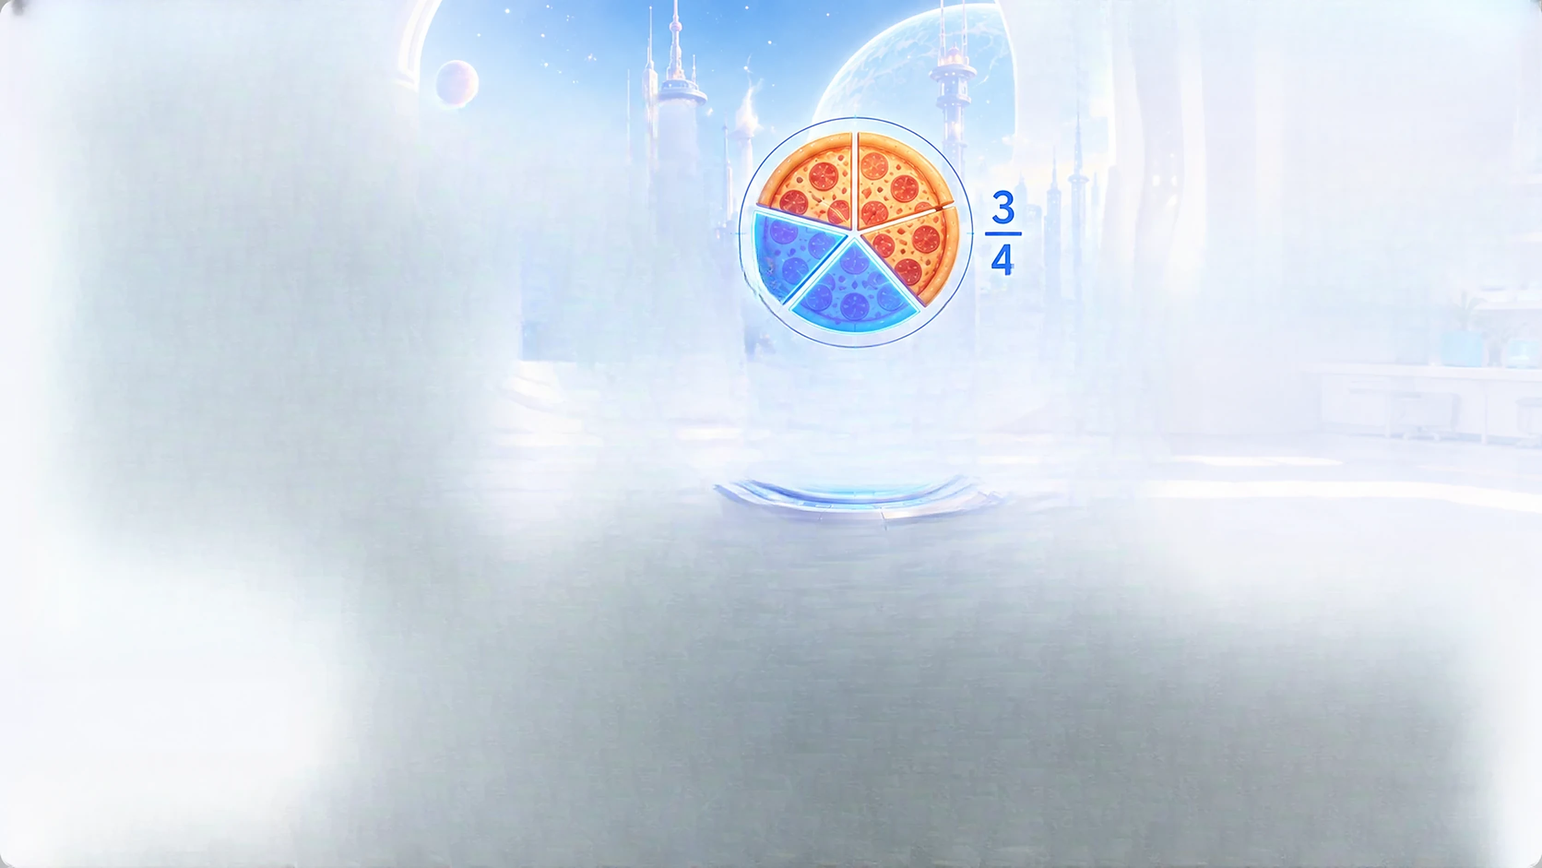
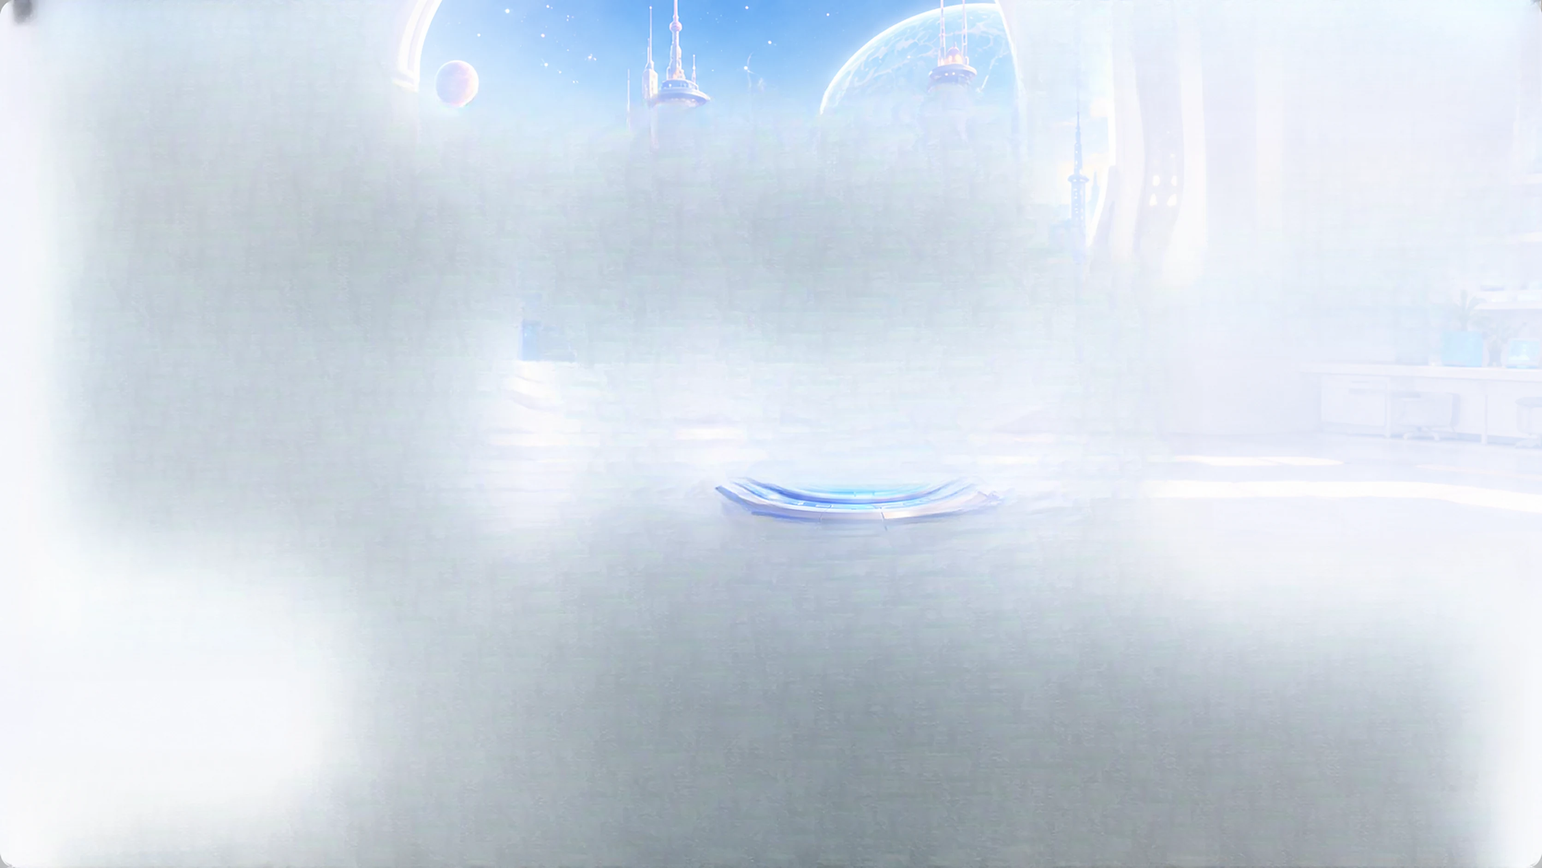
Fix production build

Changed region(s): [[0.3732, 0.0925, 0.6842, 0.4006], [0.4976, 0.5855, 0.5287, 0.6164], [0.0, 0.0, 0.0311, 0.0308]]

diff --git a/src/screens/Topic.jsx b/src/screens/Topic.jsx
@@ -1,5 +1,6 @@
 import React from 'react'
 import { useNavigate, useParams } from 'react-router-dom'
+import { useBackTrail } from '../lib/nav.js'
 import { motion } from 'motion/react'
 import { ArrowLeft, BookOpen, Box, Trophy, Check, Lock, Loader, Pencil, ClipboardCheck, Rocket, Star } from 'lucide-react'
 import Scene, { Cutout, Child } from '../components/Scene.jsx'
@@ -9,7 +10,7 @@ import { Card } from '../components/Panel.jsx'
 import Button from '../components/Button.jsx'
 import SpeechBubble from '../components/SpeechBubble.jsx'
 import Dock from '../components/Dock.jsx'
-import { topicFor, gradeLabel } from '../data/catalog.js'
+import { topicFor, gradeLabel, WORLDS } from '../data/catalog.js'
 import { useGame } from '../state/GameProvider.jsx'
 import { cn } from '../lib/utils.js'
 
@@ -19,18 +20,25 @@ const XS = [480, 660, 840, 1000, 1150]
 export default function Topic() {
   const nav = useNavigate()
   const { world = 'maths' } = useParams()
+  /* Back goes where the child came from. This said "Back to Learn" and always went to the
+     Learn Hub, which is wrong for the common path now: most children arrive from Home. */
+  const goBack = useBackTrail()
   const T = topicFor(world)
   /* The headline column is 500px and the tracks below start at a fixed y, so a long
      title must shrink rather than wrap -- two lines pushed the description down behind
      the syllabus cards. Sized off the title that shipped ("Fractions", 9 characters). */
   const titlePx = T.title.length <= 10 ? 86 : T.title.length <= 15 ? 62 : 50
+  /* The designer's backdrop carried a fraction pizza here, which was right when Fractions
+     was the only page this route served. Every subject opens it now, so the pizza was
+     painted out and each world draws its own globe on the pedestal instead. */
+  const globe = (WORLDS.find(w => w.id === world) ?? WORLDS[1]).img
   const g = useGame(); const { name, face, grade } = g.state.profile; const { xp, streak } = g.state.stats
   return (
     <Page>
       <Scene name="topic" />
-      <TopBar right={<><div className="pill h-[68px] px-2 gap-0"><StatPill kind="streak" value={streak} label="Day streak" className="border-0 shadow-none bg-transparent" /><span className="w-px h-8 bg-[var(--line)]" /><StatPill kind="xp" value={xp.toLocaleString()} label="Nova XP" className="border-0 shadow-none bg-transparent" /></div><UserChip name={name} sub={gradeLabel(grade)} face={face} /></>} showControls={false} />
+      <TopBar back={false} right={<><div className="pill h-[68px] px-2 gap-0"><StatPill kind="streak" value={streak} label="Day streak" className="border-0 shadow-none bg-transparent" /><span className="w-px h-8 bg-[var(--line)]" /><StatPill kind="xp" value={xp.toLocaleString()} label="Nova XP" className="border-0 shadow-none bg-transparent" /></div><UserChip name={name} sub={gradeLabel(grade)} face={face} /></>} showControls={false} />
       <Stack className="absolute left-[50px] top-[115px] w-[500px]" start={0.2}>
-        <Item><button className="flex items-center gap-2 text-[21px] font-extrabold text-primary-ink hover:underline" onClick={() => nav('/learn')}><ArrowLeft size={22} strokeWidth={2.6} /> Back to Learn</button></Item>
+        <Item><button className="flex items-center gap-2 text-[21px] font-extrabold text-primary-ink hover:underline" onClick={goBack}><ArrowLeft size={22} strokeWidth={2.6} /> Back</button></Item>
         <Item className="flex items-center gap-4"><h1 className="font-display font-extrabold leading-none text-ink whitespace-nowrap" style={{ fontSize: titlePx }}>{T.title}</h1><img src="/art/planet-sm.webp" alt="" className="w-[70px] floaty" /></Item>
         <Item className="text-[26px] font-extrabold text-primary-ink">{gradeLabel(grade)} <span className="text-ink-3">•</span> {T.subject}</Item>
         <Item className="mt-2 text-[18px] font-semibold text-ink-2 leading-snug">{T.desc}</Item>
@@ -46,6 +54,10 @@ export default function Topic() {
       </Stack>
 
       <Child screen="topic" delay={0.4} />
+      <motion.img src={globe} alt="" draggable={false} className="absolute left-[820px] top-[120px] w-[270px] pointer-events-none"
+        style={{ filter: 'drop-shadow(0 26px 34px rgba(40,30,140,.4))' }}
+        initial={{ opacity: 0, scale: 0.8 }} animate={{ opacity: 1, scale: 1, y: [0, -12, 0], rotate: [0, 3, 0, -3, 0] }}
+        transition={{ opacity: { delay: 0.25 }, scale: { type: 'spring', stiffness: 200, damping: 18, delay: 0.25 }, y: { duration: 6, repeat: Infinity, ease: 'easeInOut' }, rotate: { duration: 9, repeat: Infinity, ease: 'easeInOut' } }} />
       <Cutout id="topic-1" delay={0.19} amp={10} />
       <div className="absolute left-[1310px] top-[180px]"><SpeechBubble tail="left" text={T.nova} delay={0.3} className="w-[240px] text-[17px]" /></div>
 

diff --git a/src/lib/nav.js b/src/lib/nav.js
@@ -1,0 +1,97 @@
+import { useEffect, useRef } from 'react'
+import { useLocation, useNavigate } from 'react-router-dom'
+
+/* Where "back" goes when there is no trail to walk — a deep link, a refresh, or the
+   first screen of a session. Without this the button would be dead exactly when a
+   child needs it most.
+
+   Ported from v1, which kept the same map. v2 had no back system at all: every screen
+   was expected to carry its own dock, so removing a dock from one silently turned it
+   into a dead end. This makes the way out structural instead. */
+export const PARENT = {
+  '/parent/login': '/',
+  '/onboarding/child': '/parent/login',
+  '/onboarding/grade-board': '/onboarding/child',
+  '/onboarding/avatar': '/onboarding/grade-board',
+  '/onboarding/interests': '/onboarding/avatar',
+  '/onboarding/goals': '/onboarding/interests',
+  '/onboarding/nova': '/onboarding/goals',
+  '/welcome': '/home',
+  '/learn': '/home',
+  '/journey': '/home',
+  '/tests': '/home',
+  '/extra': '/home',
+  '/challenge': '/home',
+  '/profile': '/home',
+  '/parent': '/home',
+  '/missions/fractions': '/journey',
+  '/missions/fractions/spot-mistake': '/missions/fractions',
+  '/missions/fractions/complete': '/missions/fractions',
+  '/tests/mixed/intro': '/tests',
+  '/tests/mixed/question': '/tests/mixed/intro',
+  '/tests/mixed/result': '/tests',
+  '/extra/reading': '/extra',
+  '/extra/confidence': '/extra',
+  '/challenge/opponents': '/challenge',
+  '/challenge/preview': '/challenge/opponents',
+  '/challenge/battle': '/challenge/opponents',
+  '/challenge/result': '/challenge',
+  '/challenge/leaderboard': '/challenge',
+  '/profile/journey': '/profile',
+  '/switch': '/parent',
+  '/parent/evidence': '/parent',
+  '/parent/plan': '/parent',
+}
+
+/* Topic is parameterised, so it cannot be a plain key. */
+export const parentOf = path =>
+  PARENT[path] ?? (path.startsWith('/learn/topics/') ? '/learn' : null)
+
+/* The roots: nothing sits behind them, so a Back would point nowhere. */
+export const NO_BACK = new Set(['/', '/home'])
+
+/* The seven screens that render no TopBar and no Logo. Everywhere else the back lives
+   inside the header, which is both tidier and impossible to collide with; these are the
+   ones that need a floating button instead. Home is headerless too but is a root. */
+export const HEADERLESS = new Set([
+  '/welcome', '/extra', '/missions/fractions', '/switch', '/parent', '/parent/evidence', '/parent/plan',
+])
+
+/* Does this route need the floating button? Only if it has somewhere to go back to and
+   no header of its own to put the control in. */
+export const needsFloatingBack = path => !NO_BACK.has(path) && HEADERLESS.has(path)
+
+/**
+ * Back returns where the child actually came from, not to a fixed parent — a child who
+ * reached the test from Home should land back on Home, not on the Journey map just
+ * because that is the "logical" parent. PARENT is the fallback for when there is no
+ * trail: a bookmark, a refresh, or a shared link.
+ */
+export function useBackTrail() {
+  const { pathname } = useLocation()
+  const navigate = useNavigate()
+  const trail = useRef([])
+  const last = useRef(pathname)
+  const goingBack = useRef(false)
+
+  useEffect(() => {
+    if (last.current === pathname) return
+    /* Don't record the backwards step itself, or Back would ping-pong between two screens. */
+    if (goingBack.current) goingBack.current = false
+    else {
+      trail.current.push(last.current)
+      if (trail.current.length > 40) trail.current.shift()
+    }
+    last.current = pathname
+  }, [pathname])
+
+  return () => {
+    let target = null
+    while (trail.current.length && !target) {
+      const prev = trail.current.pop()
+      if (prev && prev !== pathname) target = prev
+    }
+    goingBack.current = true
+    navigate(target ?? parentOf(pathname) ?? '/home')
+  }
+}

diff --git a/src/screens/ChallengeHome.jsx b/src/screens/ChallengeHome.jsx
@@ -14,8 +14,8 @@ import { useGame } from '../state/GameProvider.jsx'
 const CARDS = [
   { I: CalendarDays, c: '#7c3aed', t: 'Daily Challenge', s: 'New challenge every day!', tag: '+30 XP', btn: 'Start', to: '/tests/mixed/intro', primary: true },
   { I: Swords, c: '#3b82f6', t: 'Battle Arena', s: 'Compete with AI opponents.', btn: 'Enter Battle', to: '/challenge/opponents', primary: true },
-  { I: Trophy, c: '#f59e0b', t: 'Leaderboard', s: 'See how you rank.', btn: 'View Leaderboard', to: '/challenge/leaderboard' },
-  { I: Medal, c: '#f97316', t: 'Personal Best', s: 'Track your top scores.', btn: 'View Stats', to: '/profile' },
+  { I: Trophy, c: '#f59e0b', grad: 'linear-gradient(100deg,#f59e0b,#f97316)', t: 'Leaderboard', s: 'See how you rank.', btn: 'View Leaderboard', to: '/challenge/leaderboard' },
+  { I: Medal, c: '#f97316', grad: 'linear-gradient(100deg,#fb923c,#ea580c)', t: 'Personal Best', s: 'Track your top scores.', btn: 'View Stats', to: '/profile' },
 ]
 
 export default function ChallengeHome() {
@@ -39,7 +39,7 @@ export default function ChallengeHome() {
           <Item key={c.t} v="pop"><Tilt max={5}>
             <Card hover className="w-[378px] h-[235px] p-5 flex flex-col" onClick={() => nav(c.to)}>
               <div className="flex items-start gap-4"><span className="icon-orb w-[86px] h-[86px]" style={{ color: c.c, background: `${c.c}1f` }}><c.I size={44} /></span><span className="flex-1 leading-tight"><span className="block font-display font-extrabold text-[24px] text-ink">{c.t}</span><span className="block mt-1 text-[16px] font-semibold text-ink-2">{c.s}</span>{c.tag && <span className="block mt-2 text-[16px] font-extrabold text-orange-500 text-right">{c.tag}</span>}</span></div>
-              <div className="mt-auto">{c.primary ? <Button size="md" arrow={c.t !== 'Daily Challenge'} className="w-full h-[54px] text-[19px] uppercase" sound="whoosh" onClick={e => { e.stopPropagation(); nav(c.to) }}>{c.btn}{c.t === 'Daily Challenge' && <ChevronRight size={22} className="ml-auto" />}</Button> : <Button variant="ghost" size="md" className="w-full h-[54px] text-[18px] uppercase" style={{ background: `${c.c}1f`, color: c.c, borderColor: `${c.c}59` }} onClick={e => { e.stopPropagation(); nav(c.to) }}>{c.btn}<ChevronRight size={22} className="ml-auto" /></Button>}</div>
+              <div className="mt-auto">{c.primary ? <Button size="md" arrow={c.t !== 'Daily Challenge'} className="w-full h-[54px] text-[19px] uppercase" sound="whoosh" onClick={e => { e.stopPropagation(); nav(c.to) }}>{c.btn}{c.t === 'Daily Challenge' && <ChevronRight size={22} className="ml-auto" />}</Button> : <Button size="md" className="w-full h-[54px] text-[18px] uppercase text-white" style={{ background: c.grad, boxShadow: `0 14px 30px -14px ${c.c}` }} onClick={e => { e.stopPropagation(); nav(c.to) }}>{c.btn}<ChevronRight size={22} className="ml-auto" /></Button>}</div>
             </Card>
           </Tilt></Item>
         ))}

diff --git a/src/screens/Home.jsx b/src/screens/Home.jsx
@@ -9,6 +9,7 @@ import {
 import Scene, { Cutout, Child } from '../components/Scene.jsx'
 import Page, { Stack, Item } from '../components/Page.jsx'
 import { Ring, Bar, Counter } from '../components/Widgets.jsx'
+import { WORLDS } from '../data/catalog.js'
 import { useGame } from '../state/GameProvider.jsx'
 import { openSettings } from '../components/SettingsSheet.jsx'
 import ParentGate from '../components/ParentGate.jsx'
@@ -27,13 +28,22 @@ const NAV = [
   { label: 'Settings', icon: Settings, to: null },
 ]
 
-const SUBJECTS = [
-  { t: 'Mathematics', s: 'Solve • Think • Grow', icon: Calculator, c: '#2563eb', bg: 'linear-gradient(160deg,#bfdbfe,#93c5fd)', to: '/learn' },
-  { t: 'Science', s: 'Discover • Experiment', icon: FlaskConical, c: '#7c3aed', bg: 'linear-gradient(160deg,#e9d5ff,#d8b4fe)', to: '/learn' },
-  { t: 'Language', s: 'Read • Write • Express', icon: BookMarked, c: '#db2777', bg: 'linear-gradient(160deg,#fbcfe8,#f9a8d4)', to: '/extra/reading' },
-  { t: 'Creativity', s: 'Imagine • Create', icon: Palette, c: '#d97706', bg: 'linear-gradient(160deg,#fde68a,#fcd34d)', to: '/learn' },
-  { t: 'Life Skills', s: 'Learn • Apply • Grow', icon: Sprout, c: '#16a34a', bg: 'linear-gradient(160deg,#bbf7d0,#86efac)', to: '/extra/confidence' },
-]
+/* The same five worlds the Learn Hub lists, in the same order, with their names taken
+   from WORLDS so the two screens can never drift apart -- Home used to call them
+   Mathematics / Science / Language / Creativity / Life Skills while the Learn Hub called
+   the same things Maths / EVS / Literacy / Computer / General Awareness.
+
+   Each card opens its own subject's syllabus directly. The Learn Hub is the picker you
+   reach from the rail when you do not already know which world you want; landing on it
+   after naming a subject asks the child the question they just answered. */
+const SUBJECT_STYLE = {
+  literacy: { s: 'Read • Write • Express', icon: BookMarked, c: '#db2777', bg: 'linear-gradient(160deg,#fbcfe8,#f9a8d4)' },
+  maths:    { s: 'Solve • Think • Grow',   icon: Calculator, c: '#2563eb', bg: 'linear-gradient(160deg,#bfdbfe,#93c5fd)' },
+  evs:      { s: 'Discover • Experiment',  icon: FlaskConical, c: '#7c3aed', bg: 'linear-gradient(160deg,#e9d5ff,#d8b4fe)' },
+  computer: { s: 'Imagine • Create',       icon: Palette, c: '#d97706', bg: 'linear-gradient(160deg,#fde68a,#fcd34d)' },
+  general:  { s: 'Learn • Apply • Grow',   icon: Sprout, c: '#16a34a', bg: 'linear-gradient(160deg,#bbf7d0,#86efac)' },
+}
+const SUBJECTS = WORLDS.map(w => ({ ...SUBJECT_STYLE[w.id], t: w.name, to: `/learn/topics/${w.id}` }))
 
 const MISSIONS = [
   [BookOpen, '#3b82f6', 'Read a new story', 30],

diff --git a/src/components/TopBar.jsx b/src/components/TopBar.jsx
@@ -1,5 +1,6 @@
 import React, { useEffect, useState } from 'react'
-import { useNavigate } from 'react-router-dom'
+import { useLocation, useNavigate } from 'react-router-dom'
+import { useBackTrail, parentOf, NO_BACK } from '../lib/nav.js'
 import { AnimatePresence, motion } from 'motion/react'
 import { ChevronDown, Globe, Sun, Moon, Volume2, VolumeX, Flame, Star, Zap, Gem, Settings, Check, ArrowLeft } from 'lucide-react'
 import Logo from './Logo.jsx'
@@ -12,17 +13,23 @@ import { openSettings } from './SettingsSheet.jsx'
 import ScreenPill from './ScreenFit.jsx'
 import { bleedX, safeT } from './Stage.jsx'
 
-/* `back` is for screens that carry no dock of their own. Navigation lives on the
-   main screen, so a screen opened from it needs one clear way home rather than a
-   full nav bar -- pass a route, or `true` to step back through history. */
+/* Every screen with a header gets a Back, without having to ask for it: if the route has
+   a parent, the control appears. Screens used to carry their own way out -- a dock, a rail,
+   an ad-hoc button -- so dropping a dock from one silently turned it into a dead end.
+   Pass `back={false}` to suppress it, or an explicit route to override where it goes. */
 export function TopBar({ logo = 'plus', center, right, className, showControls = true, back, backLabel = 'Back' }) {
   const nav = useNavigate()
+  const { pathname } = useLocation()
+  const goBack = useBackTrail()
+  const auto = !NO_BACK.has(pathname) && parentOf(pathname) != null
+  const showBack = back === false ? false : (back != null || auto)
+  const onBack = () => { sfx.tap(); back === true || back == null ? goBack() : nav(back) }
   return (
     <motion.header className={cn('absolute flex items-center justify-between px-9 pt-7 z-20', className)} style={{ ...bleedX(0), ...safeT(0) }} initial={{ y: -30, opacity: 0 }} animate={{ y: 0, opacity: 1 }} transition={{ duration: 0.8, ease: EASE }}>
       <div className="flex items-center gap-4">
-        {back && (
+        {showBack && (
           <motion.button type="button" className="pill h-[54px] pl-3 pr-5 gap-2 text-primary-ink"
-            whileHover={{ x: -3 }} onClick={() => { sfx.tap(); back === true ? nav(-1) : nav(back) }}>
+            aria-label="Go back" whileHover={{ x: -3 }} onClick={onBack}>
             <ArrowLeft size={22} strokeWidth={2.6} />
             <span className="font-display font-extrabold text-[18px]">{backLabel}</span>
           </motion.button>

diff --git a/src/data/catalog.js b/src/data/catalog.js
@@ -167,6 +167,40 @@ export const TOPICS = {
       { n: 5, name: 'Life Cycles', stars: 0, state: 'locked' },
     ],
   },
+  computer: {
+    title: 'Sequences', subject: 'Computer',
+    desc: 'Put steps in the right order, spot a pattern that repeats, and tell a machine exactly what to do.',
+    nova: 'A computer does exactly what you say — so the order of your steps is everything! ✨',
+    tracks: [
+      ['School Syllabus', ['Parts of a computer', 'Using a keyboard'], 'Completed', 'done'],
+      ['Kidsverse Plus', ['Step by step', 'Patterns', 'Repeating a step'], 'In progress', 'progress'],
+      ['Competition Edge', ['Debugging a sequence'], 'Locked', 'locked'],
+    ],
+    steps: [
+      { n: 1, name: 'What is a Step?', stars: 3, state: 'done' },
+      { n: 2, name: 'Right Order', stars: 3, state: 'done' },
+      { n: 3, name: 'Spot the Pattern', stars: 2, state: 'current' },
+      { n: 4, name: 'Repeat It', stars: 0, state: 'locked' },
+      { n: 5, name: 'Fix the Mistake', stars: 0, state: 'locked' },
+    ],
+  },
+  general: {
+    title: 'Our Community', subject: 'General Awareness',
+    desc: 'Meet the people who keep a place running, learn how to stay safe, and see what it means to help.',
+    nova: 'A community works because everybody does their bit — including you! ✨',
+    tracks: [
+      ['School Syllabus', ['People who help us', 'Our country'], 'Completed', 'done'],
+      ['Kidsverse Plus', ['Staying safe', 'Money sense', 'Being a good neighbour'], 'In progress', 'progress'],
+      ['Competition Edge', ['Current affairs'], 'Locked', 'locked'],
+    ],
+    steps: [
+      { n: 1, name: 'People Who Help', stars: 3, state: 'done' },
+      { n: 2, name: 'My Neighbourhood', stars: 3, state: 'done' },
+      { n: 3, name: 'Staying Safe', stars: 2, state: 'current' },
+      { n: 4, name: 'Money Sense', stars: 0, state: 'locked' },
+      { n: 5, name: 'Helping Out', stars: 0, state: 'locked' },
+    ],
+  },
 }
 
 export const topicFor = world => TOPICS[world] ?? TOPICS.maths

diff --git a/src/components/BackButton.jsx b/src/components/BackButton.jsx
@@ -1,0 +1,37 @@
+import React from 'react'
+import { useLocation } from 'react-router-dom'
+import { motion } from 'motion/react'
+import { ArrowLeft } from 'lucide-react'
+import { useBackTrail, needsFloatingBack } from '../lib/nav.js'
+import { sfx } from '../lib/sound.js'
+
+/**
+ * One Back for the whole app.
+ *
+ * v2 left the way out to each screen: whichever dock or rail that screen happened to
+ * draw. That works until a screen drops its dock -- then it silently becomes a dead
+ * end, which is exactly what happened to the Learn Hub and the Test Arena. A single
+ * button mounted above the routes cannot be forgotten by a new screen.
+ *
+ * It only draws on the handful of screens that render no header: everywhere else the
+ * same trail is reached through TopBar's own back control, which cannot collide with a
+ * logo the way a floating button pinned to the same corner does.
+ */
+export default function BackButton() {
+  const { pathname } = useLocation()
+  const back = useBackTrail()
+  if (!needsFloatingBack(pathname)) return null
+  return (
+    <motion.button
+      type="button"
+      className="absolute left-[24px] top-[24px] z-40 pill h-[48px] pl-3 pr-5 gap-2 text-primary-ink"
+      aria-label="Go back"
+      initial={{ opacity: 0, x: -14 }} animate={{ opacity: 1, x: 0 }} transition={{ delay: 0.35 }}
+      whileHover={{ x: -3 }}
+      onClick={() => { sfx.tap(); back() }}
+    >
+      <ArrowLeft size={21} strokeWidth={2.6} />
+      <span className="font-display font-extrabold text-[17px]">Back</span>
+    </motion.button>
+  )
+}

diff --git a/src/screens/MissionComplete.jsx b/src/screens/MissionComplete.jsx
@@ -30,7 +30,7 @@ export default function MissionComplete() {
       <Scene name="complete" />
       <Child screen="complete" delay={0.6} amp={7} />
       <Confetti />
-      <TopBar logo="planet" right={<><UserChip name={`Hi, ${name}! 👋`} sub={`Explorer Level ${level}`} face={face} /><span className="pill h-[68px] px-6 gap-3 font-display font-extrabold text-[24px] text-ink"><Star size={28} className="text-gold" fill="currentColor" /> <Counter to={320} from={300} delay={0.3} /> XP</span></>} showControls={false} />
+      <TopBar back={false} logo="planet" right={<><UserChip name={`Hi, ${name}! 👋`} sub={`Explorer Level ${level}`} face={face} /><span className="pill h-[68px] px-6 gap-3 font-display font-extrabold text-[24px] text-ink"><Star size={28} className="text-gold" fill="currentColor" /> <Counter to={320} from={300} delay={0.3} /> XP</span></>} showControls={false} />
       <div className="absolute left-[150px] top-[120px] w-[700px] text-center">
         <Chunky className="text-[112px] leading-[0.9]" delay={0.2}>MISSION</Chunky>
         <Chunky className="text-[112px] leading-[0.9] -mt-2" delay={0.35}>COMPLETE!</Chunky>

diff --git a/src/screens/TestResult.jsx b/src/screens/TestResult.jsx
@@ -22,7 +22,7 @@ export default function TestResult() {
       <Scene name="result" />
       <Child screen="result" delay={0.5} amp={7} />
       <Confetti count={140} />
-      <TopBar right={<UserChip name={name} sub={gradeLabel(grade)} face={face} />} showControls={false} />
+      <TopBar back={false} right={<UserChip name={name} sub={gradeLabel(grade)} face={face} />} showControls={false} />
       <Stack className="absolute left-[160px] top-[135px]" start={0.2}>
         <Item v="pop"><span className="chip h-[44px] px-5 text-[16px] uppercase tracking-[0.12em] text-white" style={{ background: 'var(--grad-primary)' }}><Star size={18} className="text-gold" fill="currentColor" /> Test Result</span></Item>
         <Item><h1 className="mt-3 font-display font-extrabold text-[66px] leading-none text-ink">Great work, <span className="grad-text">{name}!</span> 🎉</h1></Item>

diff --git a/src/screens/Profile.jsx b/src/screens/Profile.jsx
@@ -27,7 +27,7 @@ export default function Profile() {
   return (
     <Page>
       <Scene name="profile" />
-      <TopBar logo="planet" right={<><IconPill className="relative"><Bell size={22} /><span className="absolute top-3 right-3 w-[9px] h-[9px] rounded-full bg-red-500 border-2 border-white" /></IconPill><UserChip name={`Hi, ${name}!`} sub="Keep Exploring!" face={face} /></>} showControls={false} />
+      <TopBar back={false} logo="planet" right={<><IconPill className="relative"><Bell size={22} /><span className="absolute top-3 right-3 w-[9px] h-[9px] rounded-full bg-red-500 border-2 border-white" /></IconPill><UserChip name={`Hi, ${name}!`} sub="Keep Exploring!" face={face} /></>} showControls={false} />
 
       <Panel soft className="absolute left-[115px] top-[95px] w-[665px] h-[465px] p-8" initial="hidden" animate="show">
         <Sparkles n={5} seed={31} />

diff --git a/src/screens/LearningSetup.jsx b/src/screens/LearningSetup.jsx
@@ -31,7 +31,7 @@ export default function LearningSetup() {
     <Page>
       <Scene name="setup" />
       <Child screen="setup" delay={0.14} amp={5} />
-      <TopBar center={<Steps steps={['Welcome', 'Learning Setup', 'Profile', 'Complete']} current={1} className="w-[640px]" />} />
+      <TopBar back={false} center={<Steps steps={['Welcome', 'Learning Setup', 'Profile', 'Complete']} current={1} className="w-[640px]" />} />
       <Stack className="absolute left-[130px] top-[160px] w-[560px]" start={0.25}>
         <Item><h1 className="font-display font-extrabold text-[64px] leading-[1.02] text-ink">Set the learning<br />path <span className="text-gold">✦</span></h1></Item>
         <Item className="mt-6 text-[24px] font-semibold text-ink-2 leading-snug w-[420px]">Nova will match school learning with the right adventures.</Item>

diff --git a/src/App.jsx b/src/App.jsx
@@ -2,6 +2,7 @@ import React, { lazy, Suspense, useEffect } from 'react'
 import { BrowserRouter, Routes, Route, useLocation, Navigate } from 'react-router-dom'
 import { AnimatePresence, MotionConfig, motion } from 'motion/react'
 import { GameProvider } from './state/GameProvider.jsx'
+import BackButton from './components/BackButton.jsx'
 import Stage from './components/Stage.jsx'
 import Cosmos from './components/Cosmos.jsx'
 import NovaIsland from './components/NovaIsland.jsx'
@@ -178,7 +179,7 @@ export default function App() {
         <MotionConfig reducedMotion="user">
           <Cosmos lite />
           <MusicPlayer />
-          <Stage><Routed /><Overlays /></Stage>
+          <Stage><Routed /><BackButton /><Overlays /></Stage>
         </MotionConfig>
       </GameProvider>
     </BrowserRouter>
